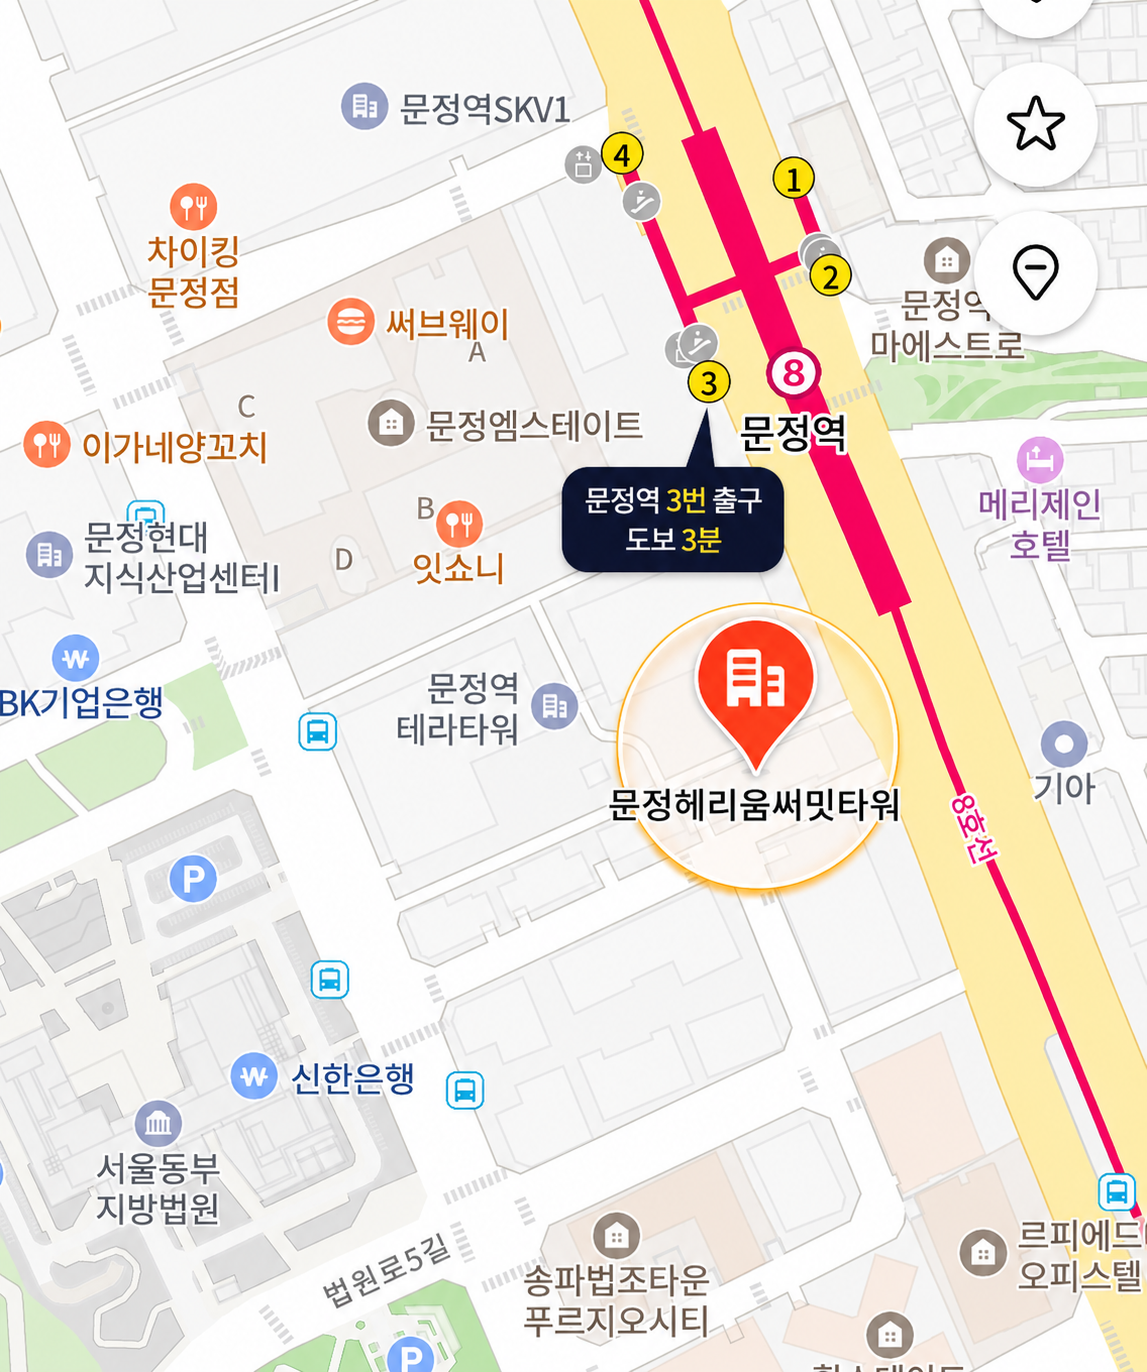
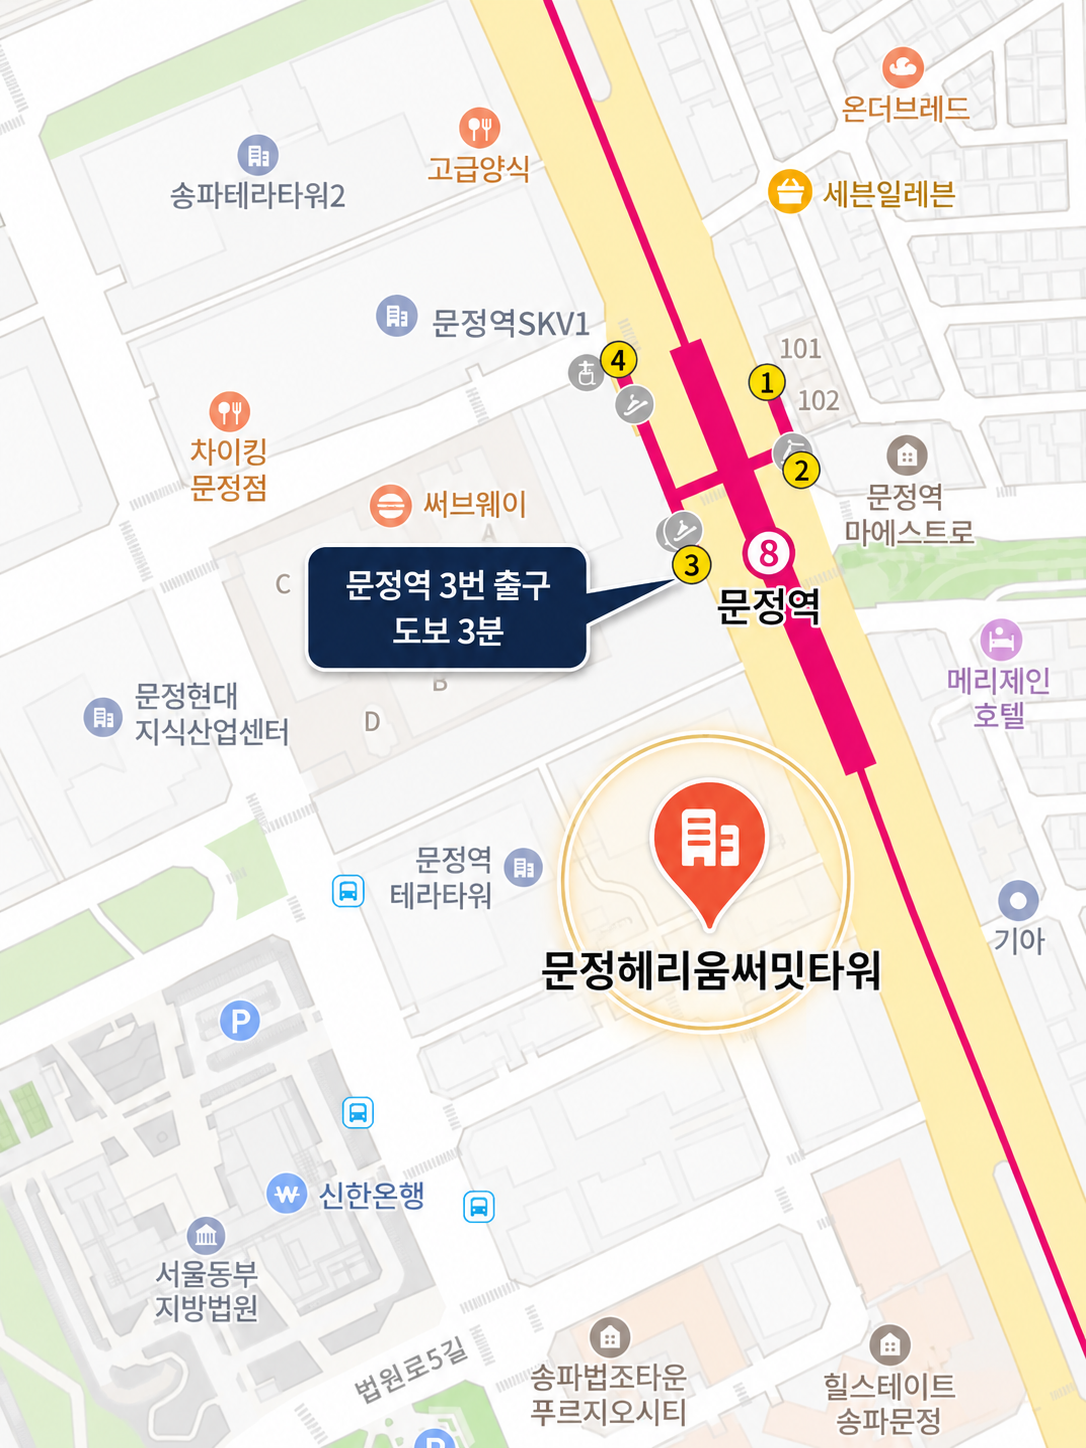
style: update mobile consultation map

diff --git a/src/components/home/ConsultationSection.tsx b/src/components/home/ConsultationSection.tsx
@@ -135,7 +135,7 @@ export function ConsultationSection() {
               aria-label="네이버 지도에서 법률사무소 정천 위치 보기"
               className="group block rounded-[22px] border border-[#E8E2D7] bg-white p-3 shadow-[0_18px_54px_rgba(17,27,54,0.06)] transition-colors hover:border-[#C8A96A] focus-visible:outline focus-visible:outline-2 focus-visible:outline-offset-4 focus-visible:outline-[#C8A96A] lg:flex-1"
             >
-              <div className="relative aspect-[1147/1372] overflow-hidden rounded-[16px] bg-[#F3EEE6] sm:hidden">
+              <div className="relative aspect-[1086/1448] overflow-hidden rounded-[16px] bg-[#F3EEE6] sm:hidden">
                 <Image
                   src="/images/map-jeong-cheon-mobile.png"
                   alt={officeContact.mapImage.alt}